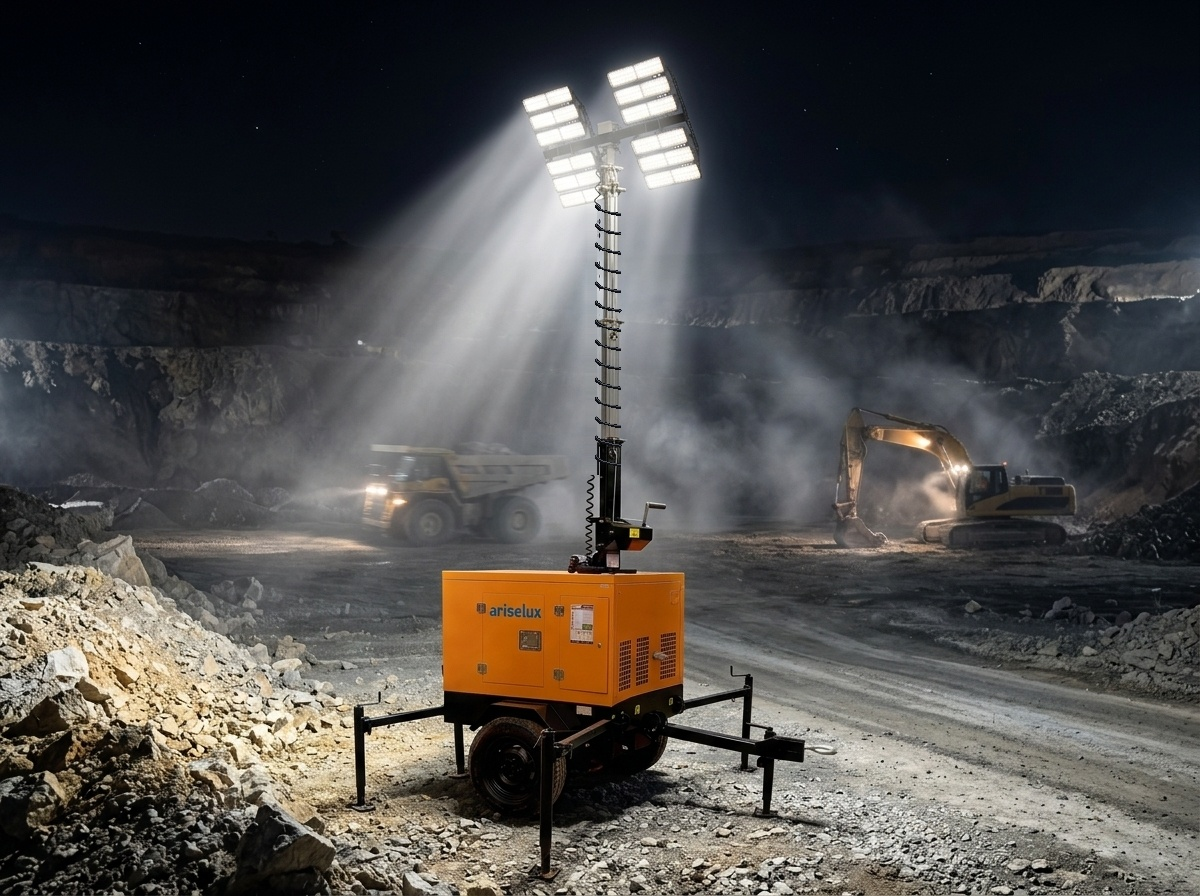
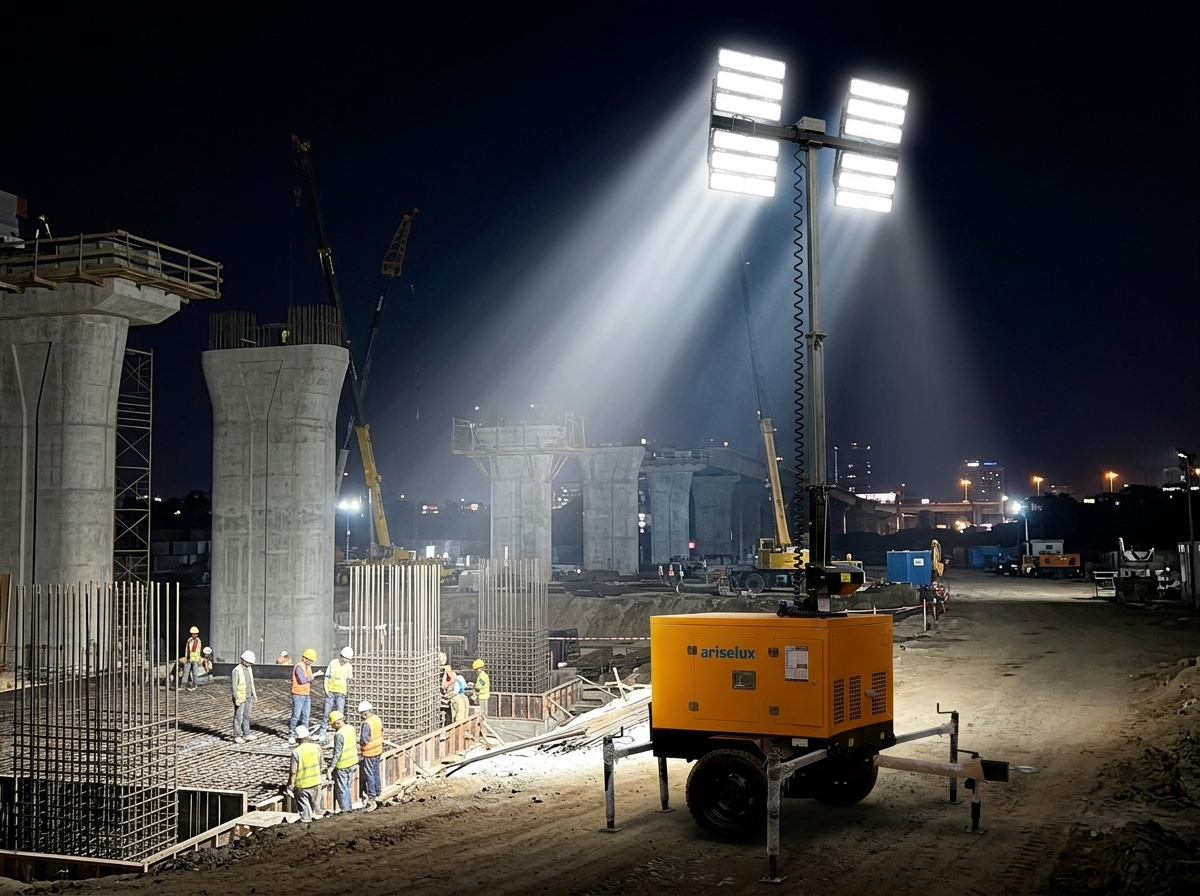
working

diff --git a/src/products-data.js b/src/products-data.js
@@ -181,7 +181,7 @@ export const productsData = {
       '/images/products/Diesel oprated/ACE LT 9000(2).png',
       '/images/products/Diesel oprated/ACE LT 9000(3).png'
     ],
-    featureImage: '/images/features/features-diesel-9000.jpg',
+    featureImage: '/images/features/features-diesel-6000.jpg',
     bestFor: [
       {
         title: 'National Highway & Expressway Night Paving',
